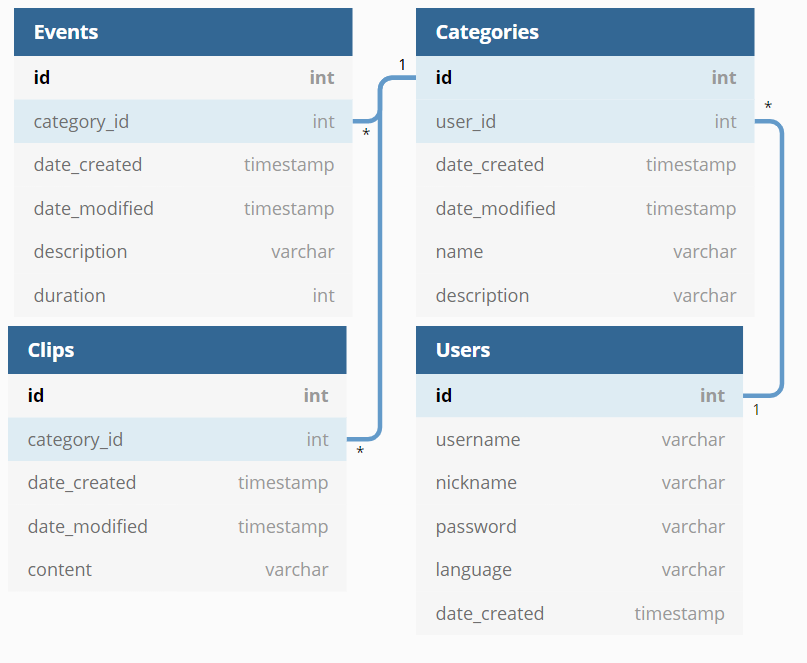
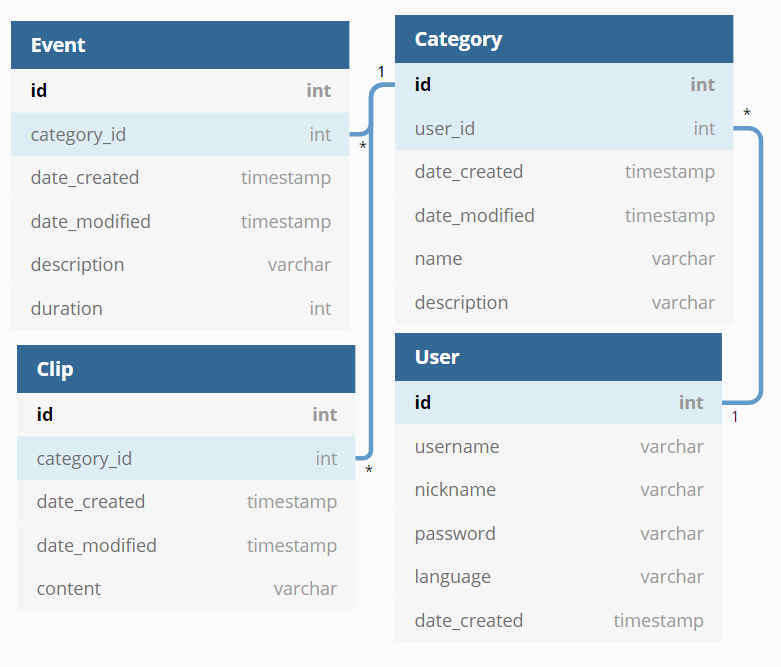
Added CREATE TABLE statements and updated documentation

diff --git a/documentation/database_diagram.md b/documentation/database_diagram.md
@@ -1,4 +1,47 @@
-## Tietokantakaavio
+# Tietokanta
+### Tietokantakaavio
 **Categories** eli kategoriat, **Events** eli tapahtumat, **Clips** eli muistiinpanot tai tekstiklipit ja **Users** eli käyttäjät. **Primary keyt** ovat lihavoitu ja **foreign keyt** ovat merkitty _id liitteellä. 
 
 ![tietokantakaavio](database_diagram.png)
+
+### CREATE TABLE -lauseet
+
+```
+CREATE TABLE User (
+    id INTEGER PRIMARY KEY, 
+    username VARCHAR(32) UNIQUE NOT NULL, 
+    nickname VARCHAR(16) NOT NULL, 
+    password VARCHAR(256) NOT NULL, 
+    language VARCHAR(2) NOT NULL, 
+    date_created TIMESTAMP NOT NULL
+)
+
+CREATE TABLE Category (
+    id INTEGER PRIMARY KEY, 
+    user_id INTEGER NOT NULL, 
+    date_created TIMESTAMP NOT NULL, 
+    date_modified TIMESTAMP NOT NULL, 
+    name VARCHAR(64) NOT NULL, 
+    description VARCHAR(1024) NOT NULL, 
+    FOREIGN KEY(user_id) REFERENCES User(id)
+)
+
+CREATE TABLE Event (
+    id INTEGER PRIMARY KEY, 
+    category_id INTEGER NOT NULL, 
+    date_created TIMESTAMP NOT NULL, 
+    date_modified TIMESTAMP NOT NULL, 
+    description VARCHAR(2048), 
+    duration INTEGER NOT NULL, 
+    FOREIGN KEY(category_id) REFERENCES Category(id)
+)
+
+CREATE TABLE Clip (
+    id INTEGER PRIMARY KEY, 
+    category_id INTEGER NOT NULL, 
+    date_created TIMESTAMP NOT NULL, 
+    date_modified TIMESTAMP NOT NULL, 
+    content VARCHAR(4096) NOT NULL, 
+    FOREIGN KEY(category_id) REFERENCES Category(id)
+)
+```

diff --git a/README.md b/README.md
@@ -1,9 +1,10 @@
 # Web-tietokantasovellus Keiji
 Sovelluksen nimi tulee japaninkielisestä sanasta 計時, joka tarkoittaa _ottaa aikaa_. Se on suunniteltu kielten opiskelun kannalta. Sillä voi kartoittaa ajankäyttöä kohdekielen parissa, ja ottaa myös ylös muistiinpanoja. Sovellus löytyy osoitteesta: https://keiji-tsoha2020.herokuapp.com. Testikäyttäjätunnus on `dev` ja salasana sille on `test4200`. Sen nickname eli kirjautumisen jälkeen näkyvä nimi on `developer test`.
 
-Tietokantakaavio [täällä](documentation/database_diagram.md)
-Käyttötapaukset [täällä](documentation/user_stories.md).
-Käyttöohje [täällä](documentation/user_guide.md).
+## Dokumentaatio
+* [Käyttöohje](documentation/user_guide.md)
+* [Käyttötapaukset](documentation/user_stories.md)
+* [Tietokantakaavio](documentation/database_diagram.md)
 
 ## Riippuvuudet
  * Python 3 (>= 3.5)
@@ -28,6 +29,7 @@ Viimeiseksi asenna tarvittavat riippuvuudet ajamalla komento:
 ```
 pip install -r requirements.txt
 ```
+Halutessasi voit vielä laittaa päälle debug-moodin [run.py-tiedostosta](run.py) asettamalla debug-parametrin arvoon `True`.
 
 Sovellus käynnistyy nyt ajamalla komento (tai ilman numeroa kolme): 
 ```

diff --git a/documentation/user_stories.md b/documentation/user_stories.md
@@ -17,3 +17,7 @@ Käyttäjä pystyy nyt myöhemmin tarkistamaan tilasto-sivulta paljon hän on ke
 Käyttäjä voi haluta myös ottaa talteen hyviä otteita kuluttamastaan viihteestä samaan palveluun. Esimerkiksi: 
 * "Löysin tämän kivan twiitin, joka oli hienosti artikuloitu. Haluan sen talteen."
 * "Lukemassani kirjassa oli mielenkiintoinen virke ja haluan sen talteen."
+
+## Tulevaisuudessa
+* Käännökset kieliominaisuudelle
+* Integraatio palveluihin (esm. YouTube, Spotify) automaattiselle ajanseurannalle
